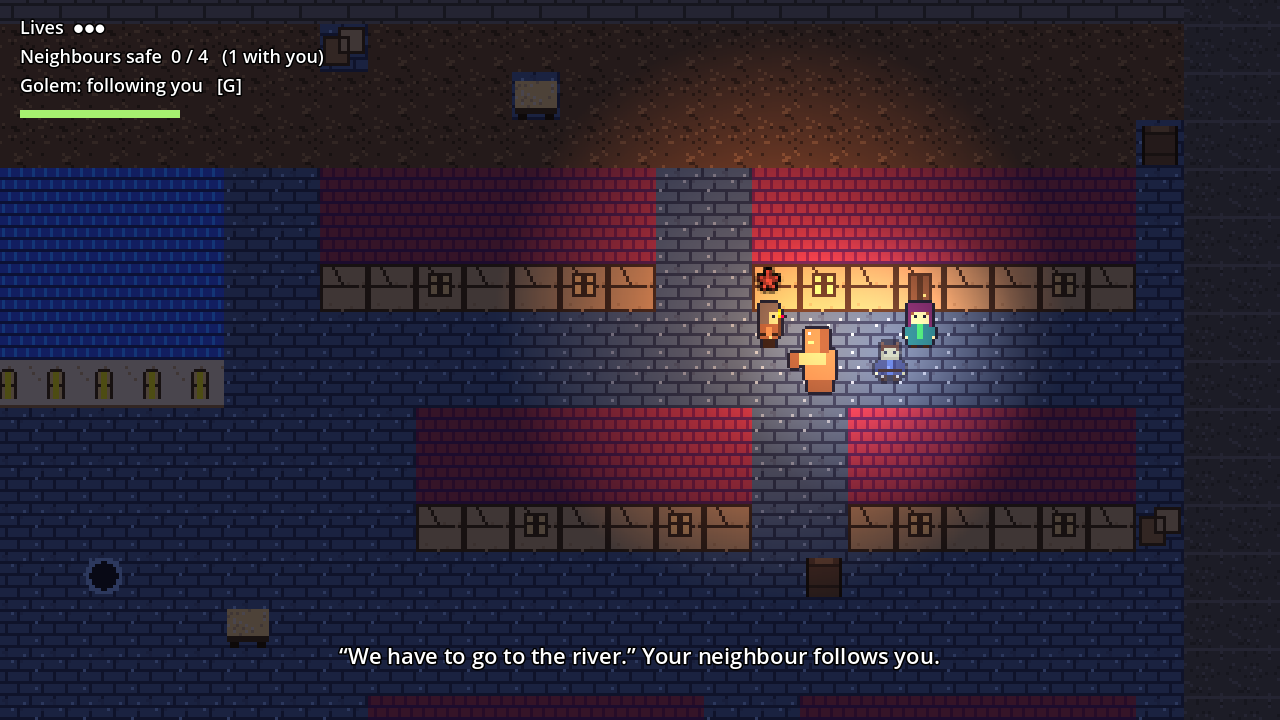
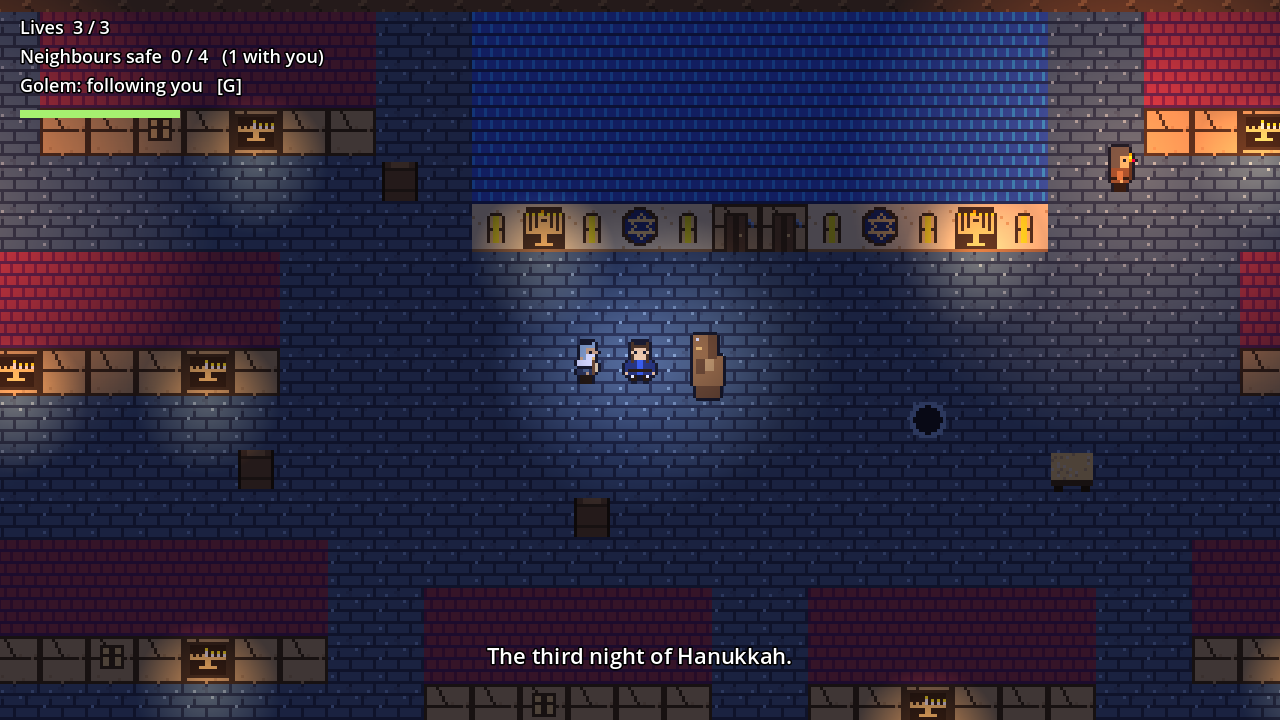
Make the quarter look Jewish
Mezuzot on every door; Hanukkah menorahs lit in the windows (the third
night: three lights and the shamash), glowing at night; the synagogue gets
a round Star of David window and menorahs in niches. The player has
sidelocks; the elder wears a tallit and carries the synagogue's Torah.
The game is now set on the third night of Hanukkah.

Claude-Session: https://claude.ai/code/session_016Cn9VQzkGSf1AWUzN4E1E7

diff --git a/README.md b/README.md
@@ -1,6 +1,6 @@
 # Golem (working title)
 
-A top-down medieval Jewish adventure game made in Godot 4. On the night a mob comes for the Jewish quarter of an invented town, you and the Golem have to get your neighbours out to the boat at the river gate.
+A top-down medieval Jewish adventure game made in Godot 4. On the third night of Hanukkah, a mob comes for the Jewish quarter of an invented town, and you and the Golem have to get your neighbours out to the boat at the river gate.
 
 **Status:** first playable version. One town, four neighbours to rescue, and up to eight torch-carrying mob members on patrol. The art is placeholder, made to be redrawn in [Sprite Studio](https://github.com/adobrer99-max/sprite-studio).
 
@@ -55,7 +55,8 @@ Pick it on the start screen. The game remembers your choice until you close it.
 | Lives | 3 | 3 | 2 |
 
 All the numbers are in `DIFFICULTY` at the top of `game/scripts/main.gd`.
-![Leading a neighbour while the Golem holds back the mob](docs/neighbour.png)
+![Outside the synagogue with the elder, who carries the Torah scroll](docs/neighbour.png)
+![Menorahs in the windows of the quarter](docs/street.png)
 ![The river gate](docs/river.png)
 
 ## Changing the art
@@ -72,7 +73,7 @@ Save your redrawn `.sprite.json` back into `art-source/` too, so you can keep ed
 
 ## Changing the town
 
-The whole town is the text file `game/levels/level1.txt`: one character per 16×16 tile. The legend at the bottom of the file lists them. Draw houses with `#` (the game adds the front walls), put `D` for doors and `w` for windows, `B` and `H` for hiding places, `N` and `E` for neighbours, digits for mob members and lowercase letters for their patrol points. The patrol routes are listed under `[patrols]`.
+The whole town is the text file `game/levels/level1.txt`: one character per 16×16 tile. The legend at the bottom of the file lists them. Draw houses with `#` (the game adds the front walls), put `D` for doors (they all have a mezuzah), `w` for windows and `L` for windows with a Hanukkah menorah, `B` and `H` for hiding places, `N` and `E` for neighbours, digits for mob members and lowercase letters for their patrol points. The patrol routes are listed under `[patrols]`.
 
 ## How it's built
 
